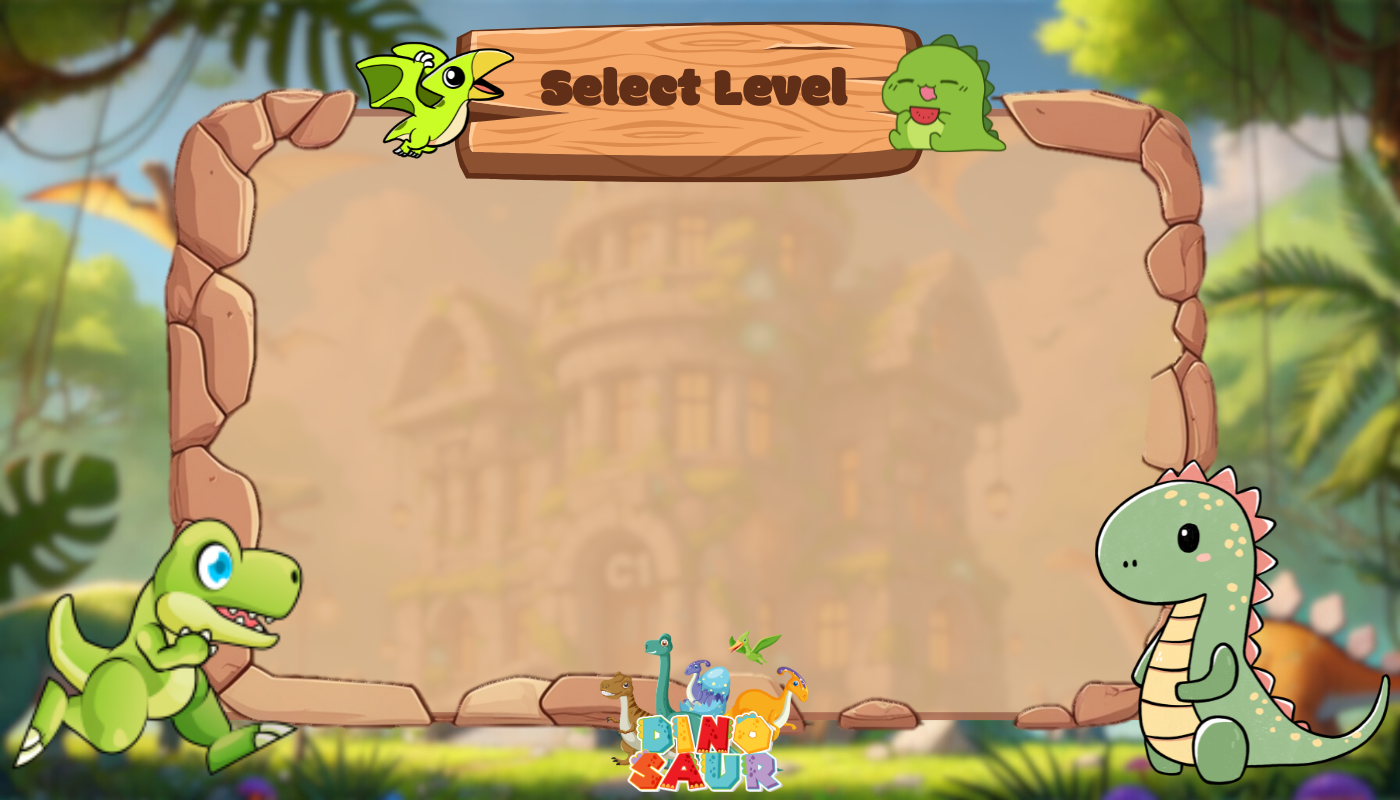
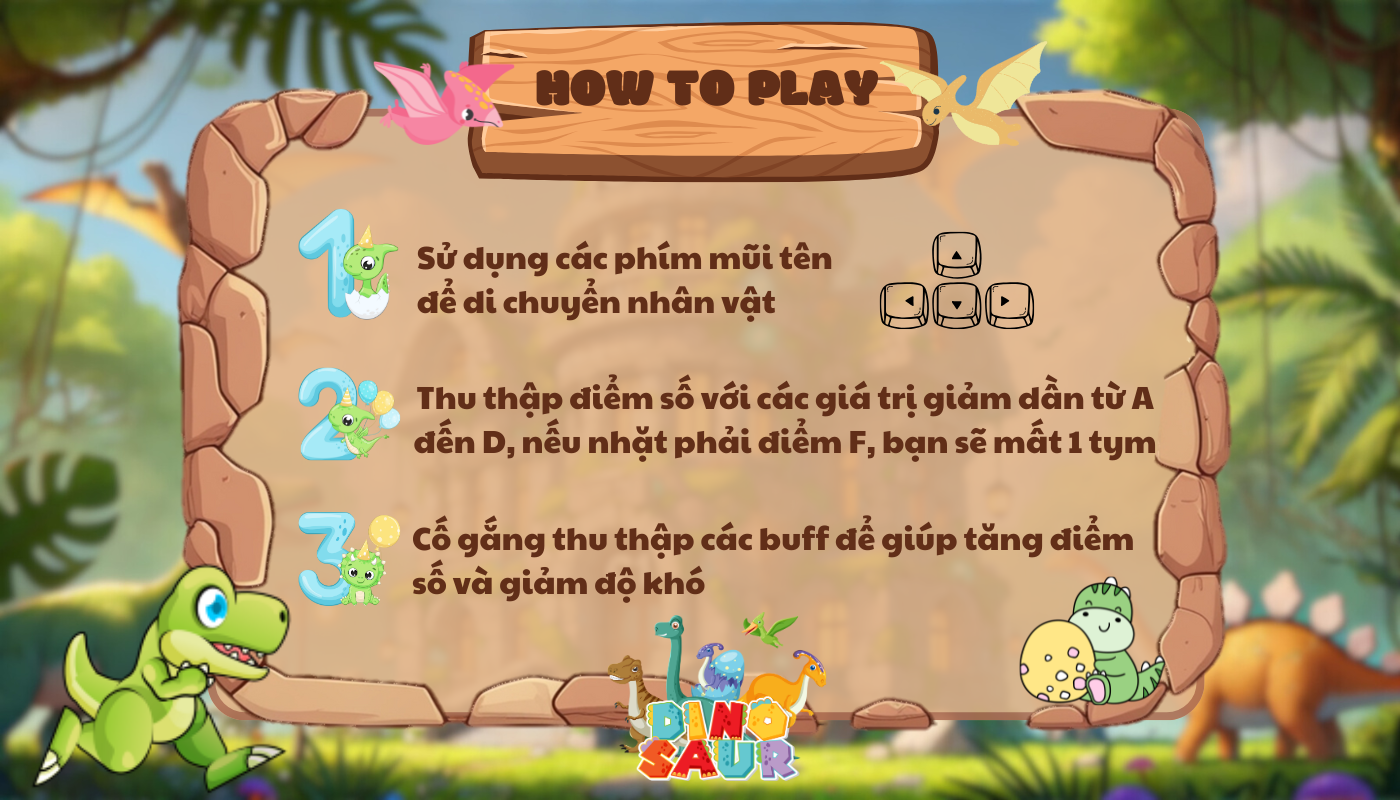
Change

Changed region(s): [[0.0, 0.0312, 1.0, 1.0], [0.6143, 0.2812, 0.7371, 0.4062]]

diff --git a/src/com/group19/userinterface/inforPage.java b/src/com/group19/userinterface/inforPage.java
@@ -89,7 +89,7 @@ public class inforPage extends JFrame {
         this.setVisible(false);
         // Tạo cửa sổ hướng dẫn
         JDialog instructionDialog = new JDialog(this, "Instructions", true);
-        instructionDialog.setSize(1200, 800);
+        instructionDialog.setSize(1400, 800);
         instructionDialog.setLocationRelativeTo(this);
 
         // Tạo panel chính với layout null
@@ -100,7 +100,7 @@ public class inforPage extends JFrame {
         JLabel instructionBackgroundLabel = new JLabel(instructionBackgroundIcon);
 
         // Đặt kích thước cho hình nền
-        instructionBackgroundLabel.setBounds(0, 0, 1200, 800);
+        instructionBackgroundLabel.setBounds(0, 0, 1400, 800);
         instructionPanel.add(instructionBackgroundLabel);
 
         // Tạo nút "Return"
